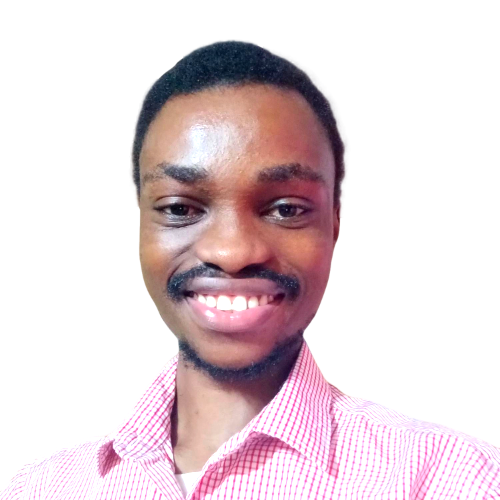
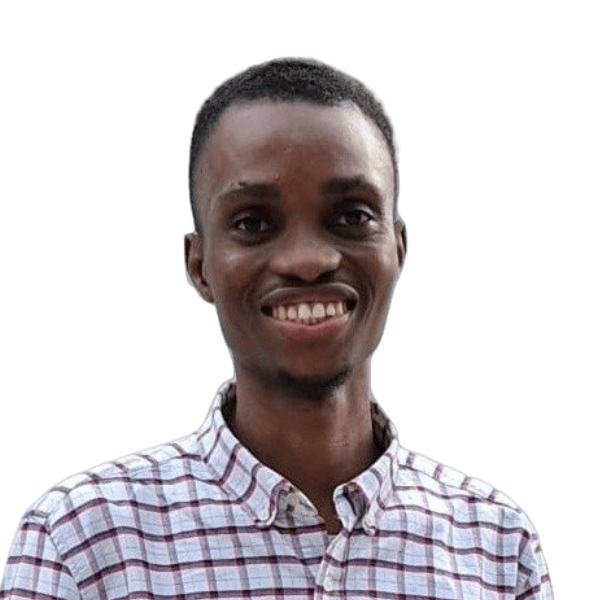
update image and data

diff --git a/public/db/user.js b/public/db/user.js
@@ -1,12 +1,12 @@
 const user = {
     name: "Damilare Protocol",
-    image: "/assets/images/profile-picture.png",
+    image: "/assets/images/mrprotocoll.png",
     bio: "I am passionate about making a difference with my work and I thrive in a collaborative environment where teamwork and collaboration are valued.",
     about: "<p>Hello! I'm a software developer passionate about developing scalable web applications and solving complex problems. Through my years of experience, I've mastered the art of crafting clean, efficient, and user-friendly applications that scales.</p><p> One of my greatest skills is my ability to understand the business perspectives of software engineering. I'm a great communicator, both in writing and verbally, and I always prioritize teamwork and collaboration in my work. I also have experience mentoring junior developers, which has helped me develop my leadership skills.</p>",
     title: "Software Engineer",
     handle: "@mrprotocoll",
-    cv: "https://drive.google.com/file/d/1mIrHPBmxV-9MpqXeO67f2mR3ddJSpAsg/view?usp=sharing",
-    startYear: 2019,
+    cv: "https://docs.google.com/document/d/e/2PACX-1vSYB2GdGMuweSW53rxJ_HyU3XNOcuN7rQQ9Gkk4ufbDS4cjSPDO68tQNF2A648GsOGOWEDqxuT7eE5U/pub",
+    startYear: 2020,
     socials: {
         linkedin: "https://www.linkedin.com/in/mrprotocoll", 
         twitter: "https://twitter.com/dprotocoll", 
@@ -18,8 +18,8 @@ const user = {
         {
             company: "Microverse",
             role: "Full-stack Development",
-            year: "2022 - 2023",
-            achievements: "I spent 1300+ hours mastering algorithms, data structures, and full-stack development. I also Developed skills in pair programming using GitHub, industry-standard gitflow, and daily standups to collaborate with international remote developers."
+            year: "2022",
+            achievements: "I spent 1300+ hours mastering algorithms, data structures, and full-stack development. I also Developed skills in pair programming using GitHub, industry-standard gitflow, and daily stand-ups to collaborate with international remote developers."
         },
         {
             company: "Yaba College of Technology",
@@ -46,15 +46,15 @@ const user = {
     ],
     headline: [
         {
-            message: "I am currently contributing to ",
-            link: "https://github.com/hackjunction/JunctionApp",
-            title: "JunctionApp",
+            message: " I am currently building ",
+            link: "https://github.com/mrprotocoll/resplify",
+            title: "Resplify",
             target: "_blank"
         },
         {
-            message: " I am currently building ",
-            link: "https://github.com/mrprotocoll/dunia",
-            title: "Dunia",
+            message: "I am currently contributing to ",
+            link: "https://github.com/RoadTrip-Community/Wokhive-Frontend",
+            title: "WokHive",
             target: "_blank"
         },
         {

diff --git a/components/about/AboutCard.jsx b/components/about/AboutCard.jsx
@@ -2,10 +2,9 @@
 
 import Image from "next/image"
 import Aos from "aos"
-import { useEffect, useState } from "react";
+import { useEffect } from "react";
 import CardOverlay from "@components/card/CardOverlay";
 import Link from "next/link";
-import { Twitter, GitHub, LinkedIn, Medium, SendMail } from 'iconoir-react'
 import SocialLinks from "@components/generic/SocialLinks";
 const AboutCard = ({ data }) => {
     useEffect(() => {
@@ -25,7 +24,7 @@ const AboutCard = ({ data }) => {
                     <div className="img-box position-relative">
                         <Image src={data.image}  className="object-contain" fill 
                         sizes="(max-width: 768px) 322px, 323px, (max-width: 1200px) 322px, 323px" 
-                        alt="About Me" />
+                        alt={data.name} />
                     </div>
                     <h2>{data.name}</h2>
                     <p>{data.handle}</p>
